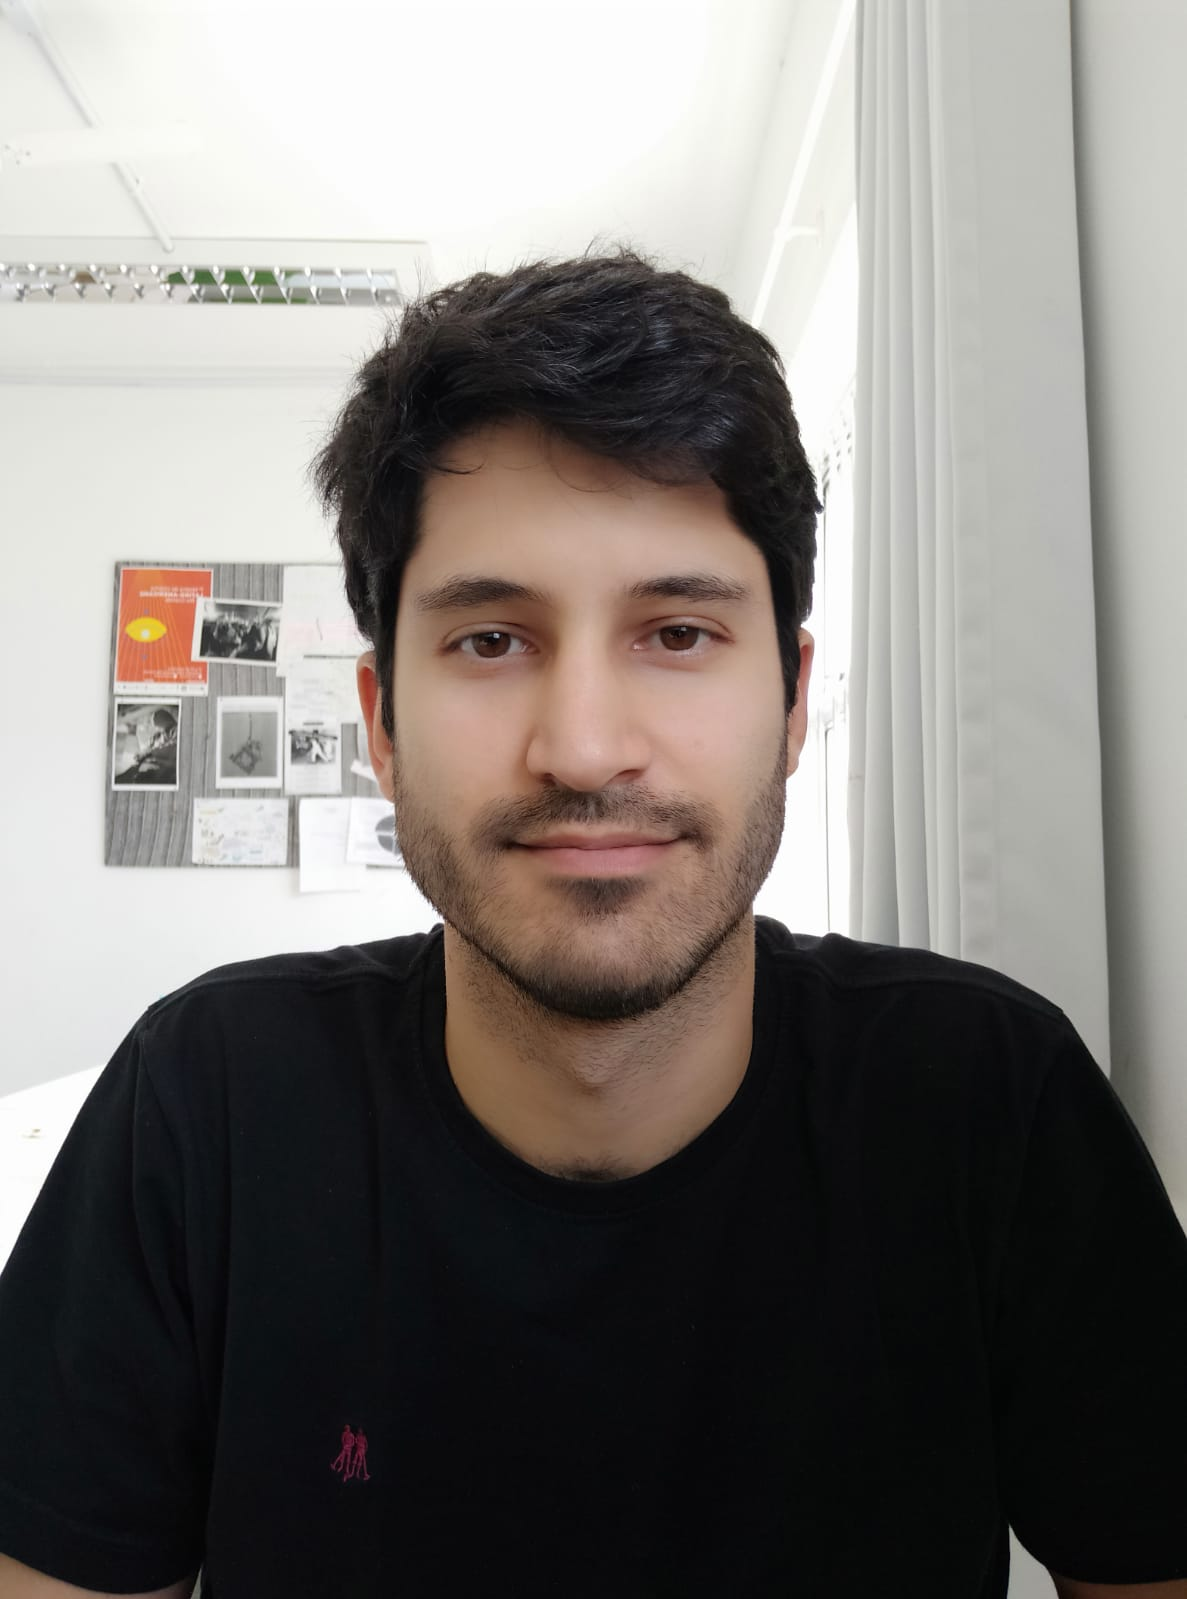
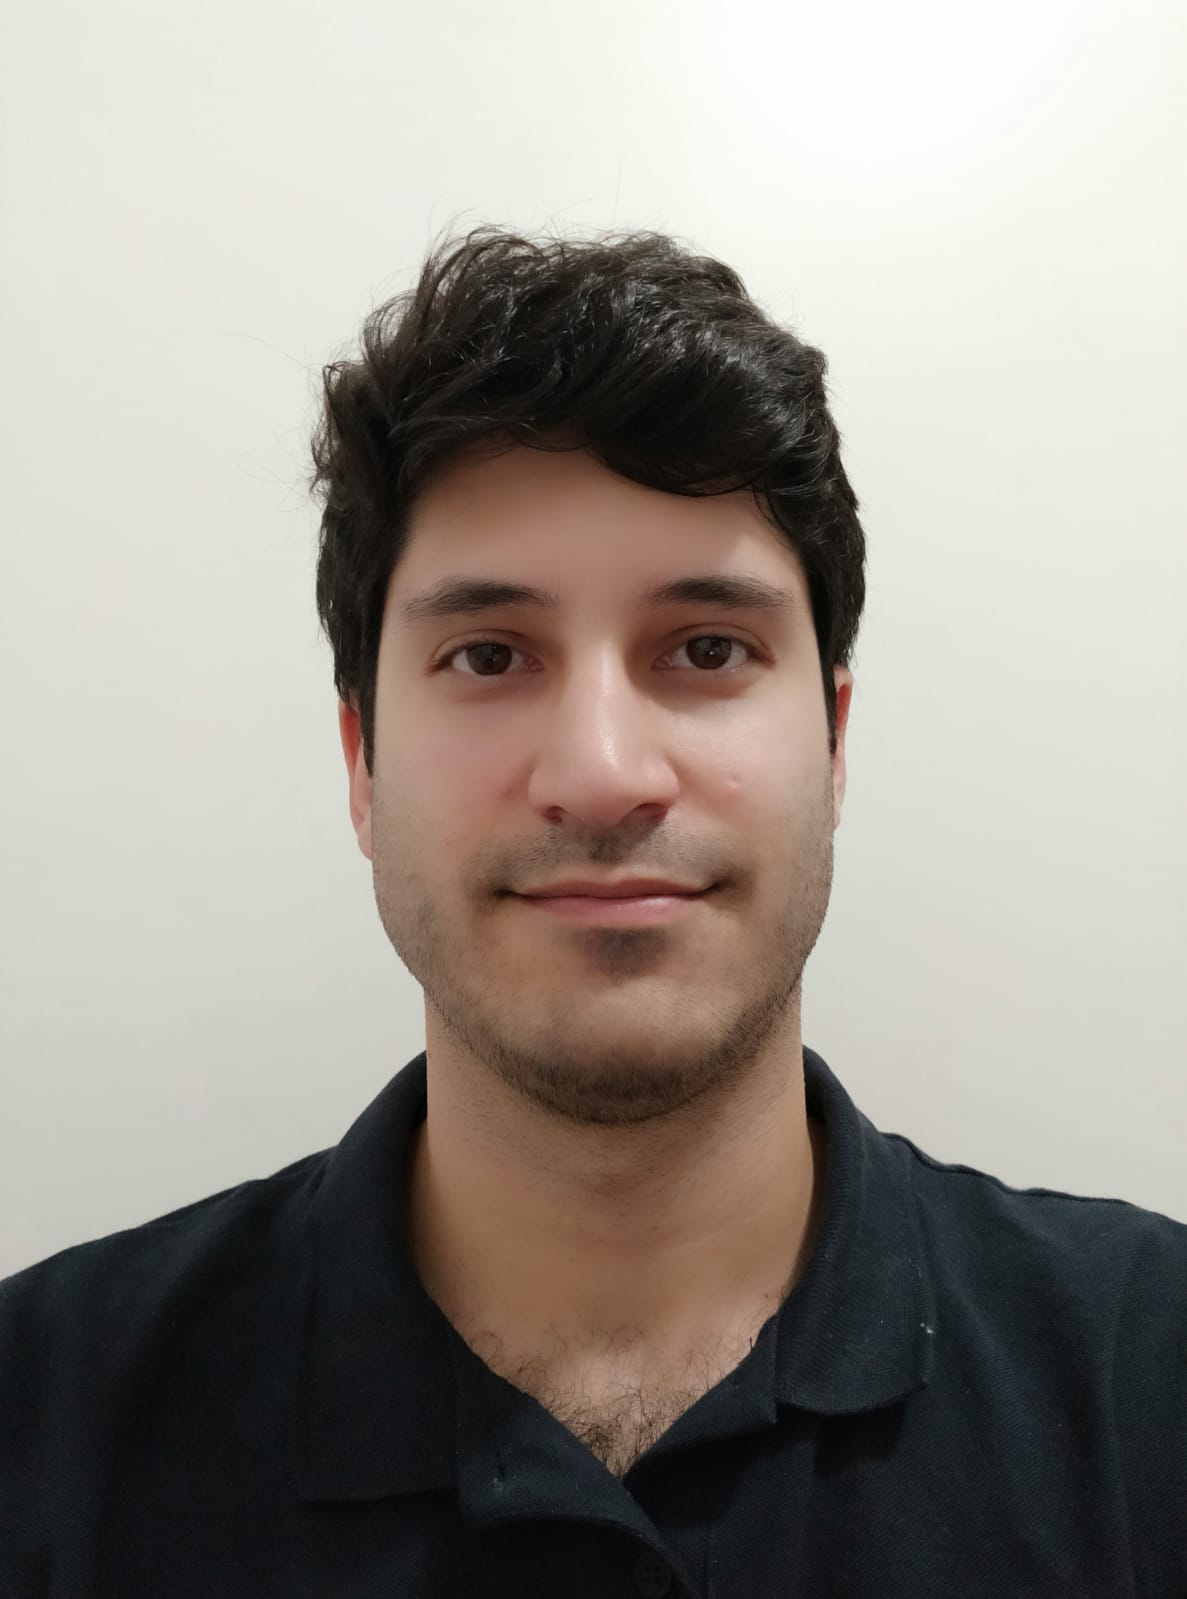
up

diff --git a/website/_site/index.html b/website/_site/index.html
@@ -140,7 +140,7 @@ ul.task-list li input[type="checkbox"] {
 <!-- main -->
 <div class="quarto-about-trestles">
   <div class="about-entity">
-    <img src="imagens/eu11.JPEG" class="about-image
+    <img src="imagens/eu.JPEG" class="about-image
   round " style="height: 15em; width: 15em;">
 <header id="title-block-header" class="quarto-title-block default">
 <div class="quarto-title">
